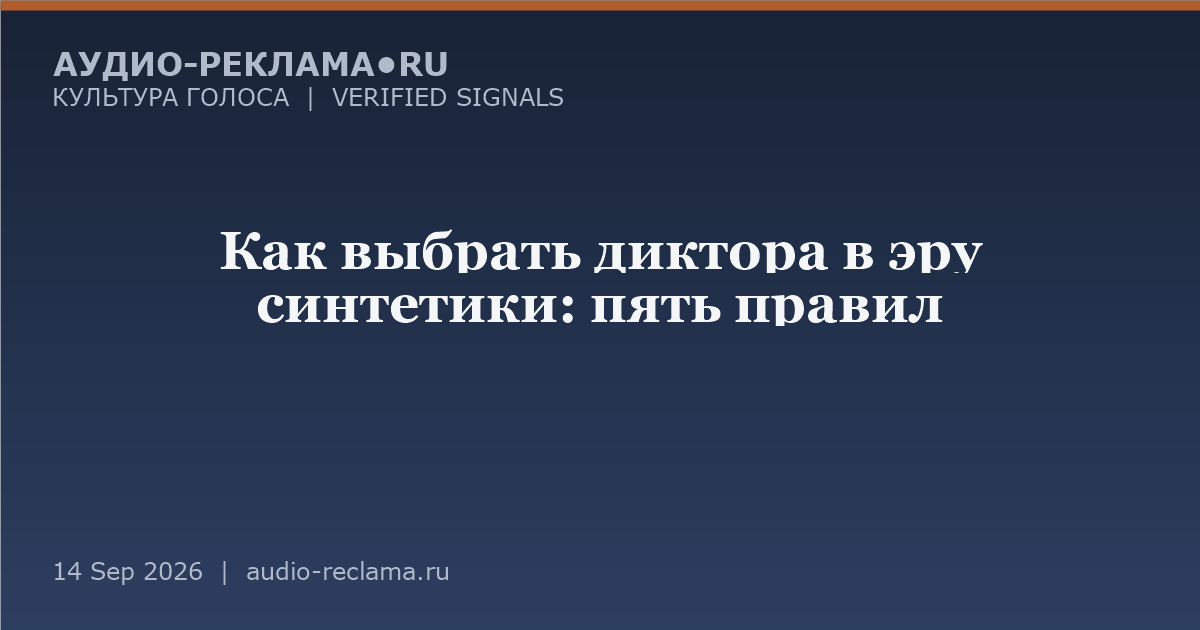
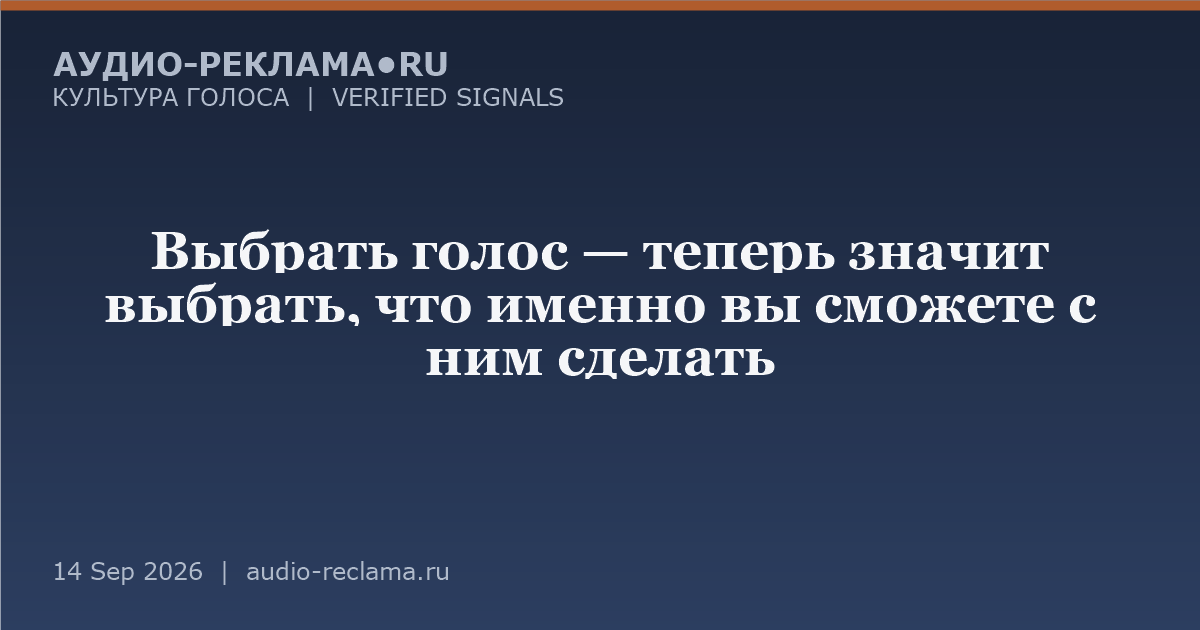
feed: rework 'vybor-diktora' to flagship - choosing a voice becomes choosing a reproducible asset (origins, rights, control); drop catalog CTA

Changed region(s): [[0.0925, 0.3619, 0.925, 0.5127], [0.3392, 0.5429, 0.6475, 0.6032]]

diff --git a/feed/README.md b/feed/README.md
@@ -25,7 +25,7 @@ Evidence-слой (проверяемость):
 Конверсионный слой (потребность → компетенция → решение → контакт):
 - 12.09 kto-proveril-golos — проверка голоса до эфира (corpus/kto-vypuskaet-golos.md)
 - 13.09 golos-banka — IVR-меню: что проверить перед эфиром (guides/bank-voice-menu.md)
-- 14.09 vybor-diktora — 5 правил выбора диктора (guides/choosing-a-voice.md)
+- 14.09 vybor-diktora — перестаём выбирать диктора, выбираем голосовой актив (guides/choosing-a-voice.md)
 - 15.09 ozvuchka-video — финальная версия ролика (guides/video-voiceover.md)
 - 16.09 umg-infrastruktura — UMG×ElevenLabs: права голоса в инфраструктуру рынка (E-2026-016) [флагман, вытеснил obyavleniya-aeroporta]
 
